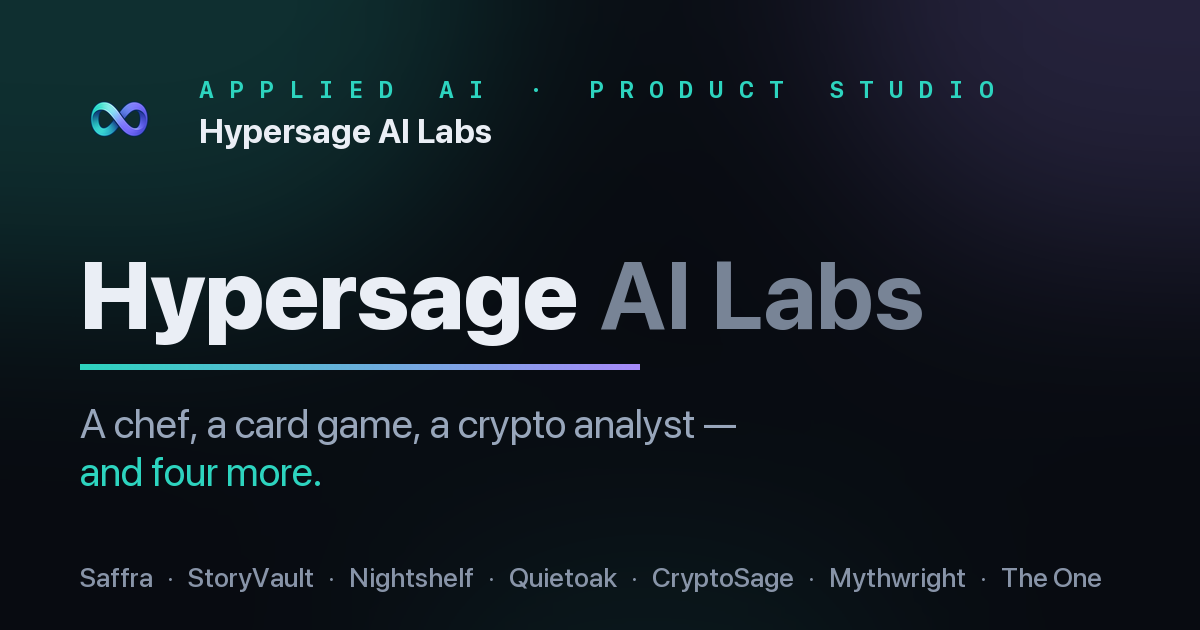
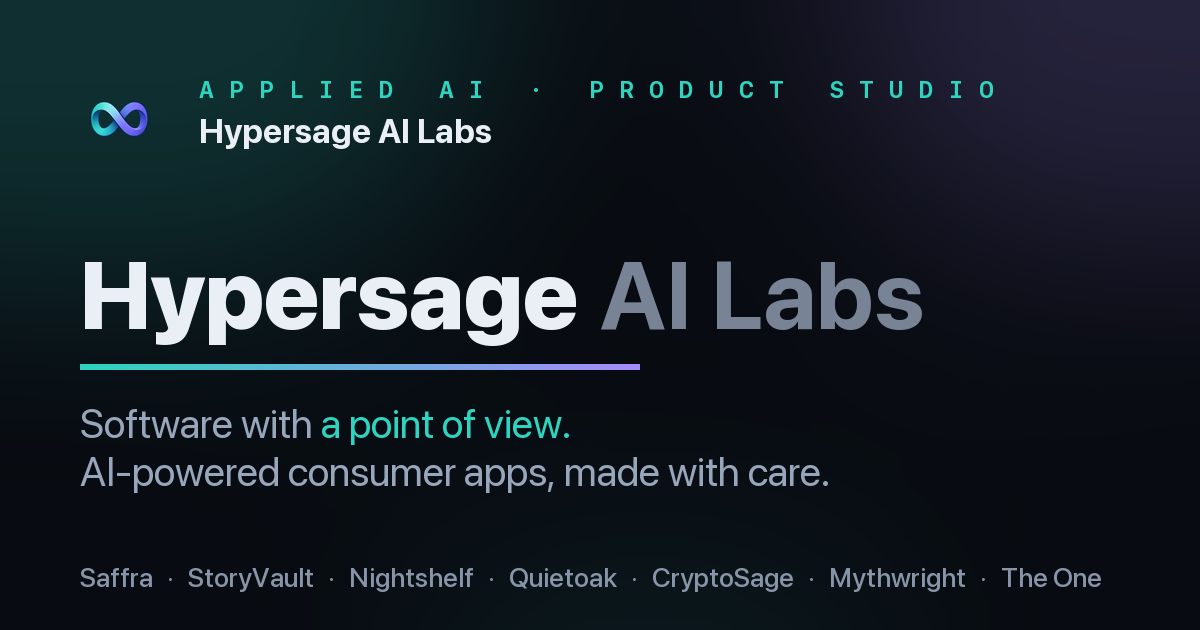
Hero → tagline "Software with a point of view."
Replaces the app-listing hero with a clean studio tagline (no product
enumeration in the headline). Subhead describes the studio, not the app
list. Regenerated og-image to match.

Changed region(s): [[0.0617, 0.6333, 0.6783, 0.7841]]

diff --git a/index.html b/index.html
@@ -471,8 +471,8 @@
     <div class="container">
       <div class="hero-inner">
         <span class="eyebrow">Applied AI · Product Studio</span>
-        <h1>A personal chef. A card game. A crypto analyst. <span class="grad-text">And four more.</span></h1>
-        <p class="lede">Hypersage builds a deliberately eclectic family of apps — seven across cooking, fiction, sleep, mental health, crypto, games, and dating — each made with the same care.</p>
+        <h1>Software with <span class="grad-text">a point of view</span>.</h1>
+        <p class="lede">Hypersage is an independent studio building AI-powered consumer apps — opinionated, carefully made, useful, beautiful, honest.</p>
         <div class="hero-cta">
           <a href="#products" class="btn btn-primary"><span>See the products</span><span aria-hidden="true">→</span></a>
           <a href="#contact" class="btn btn-ghost">Get in touch</a>